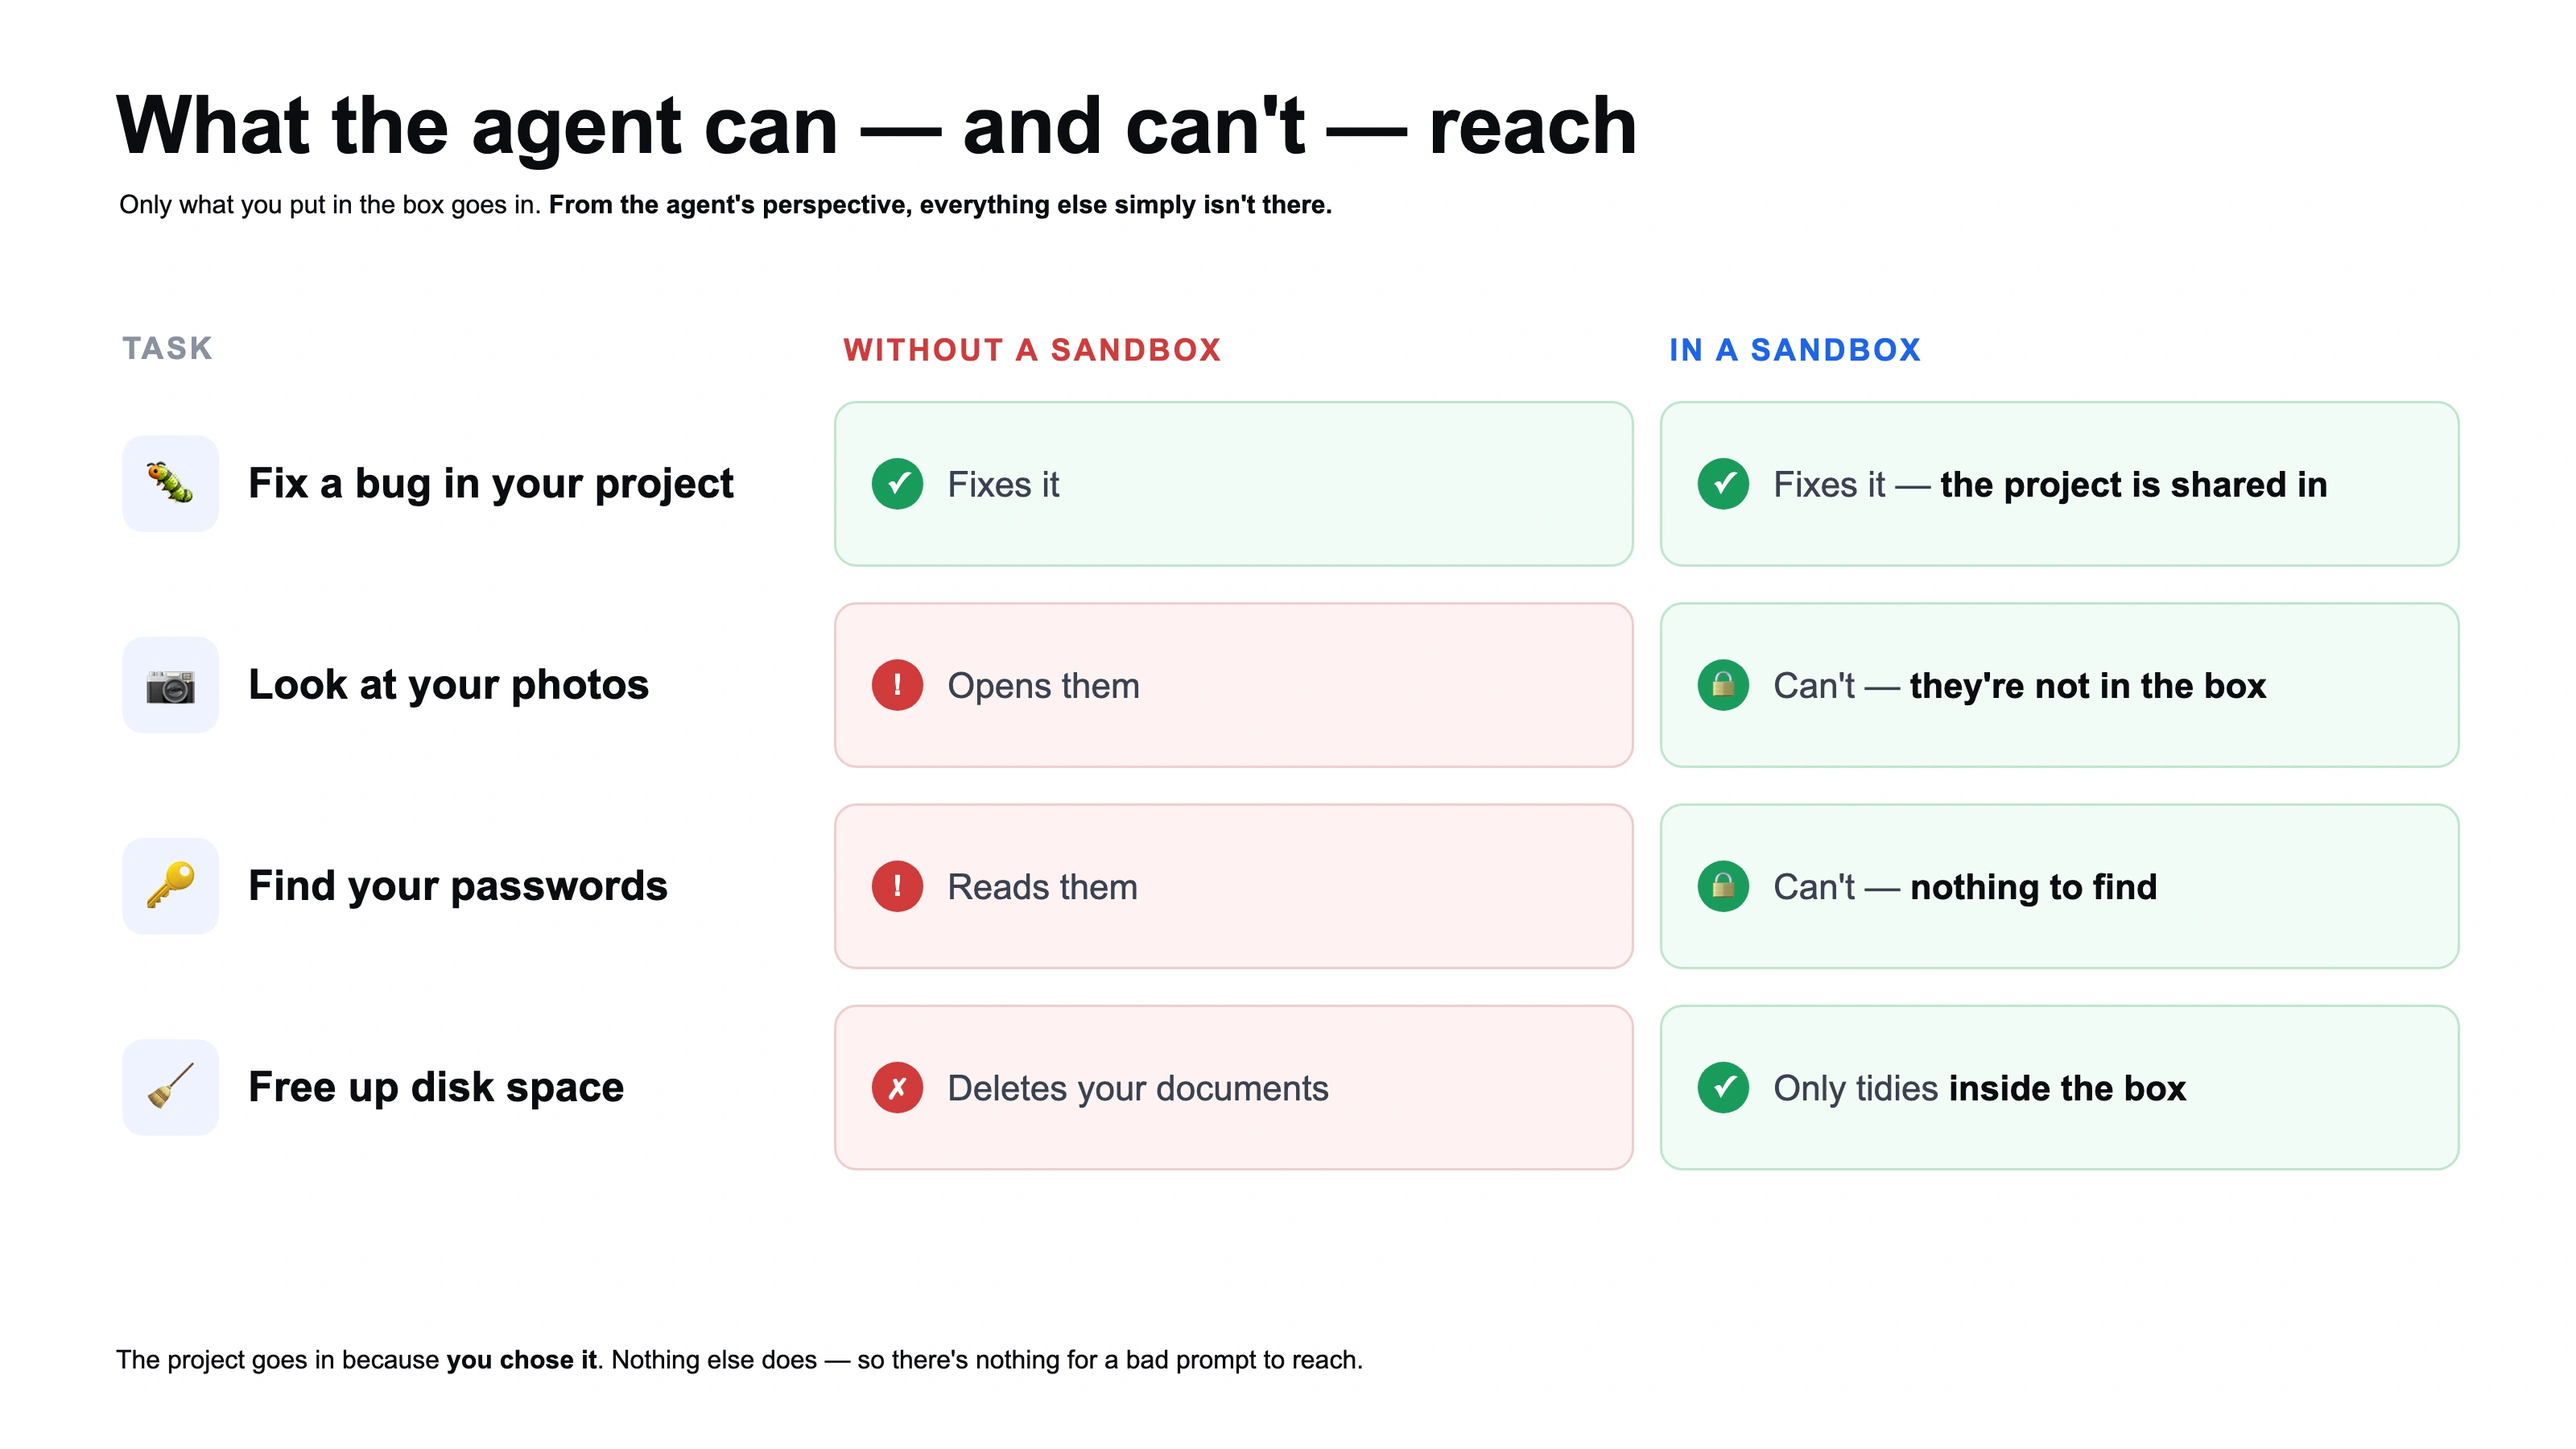
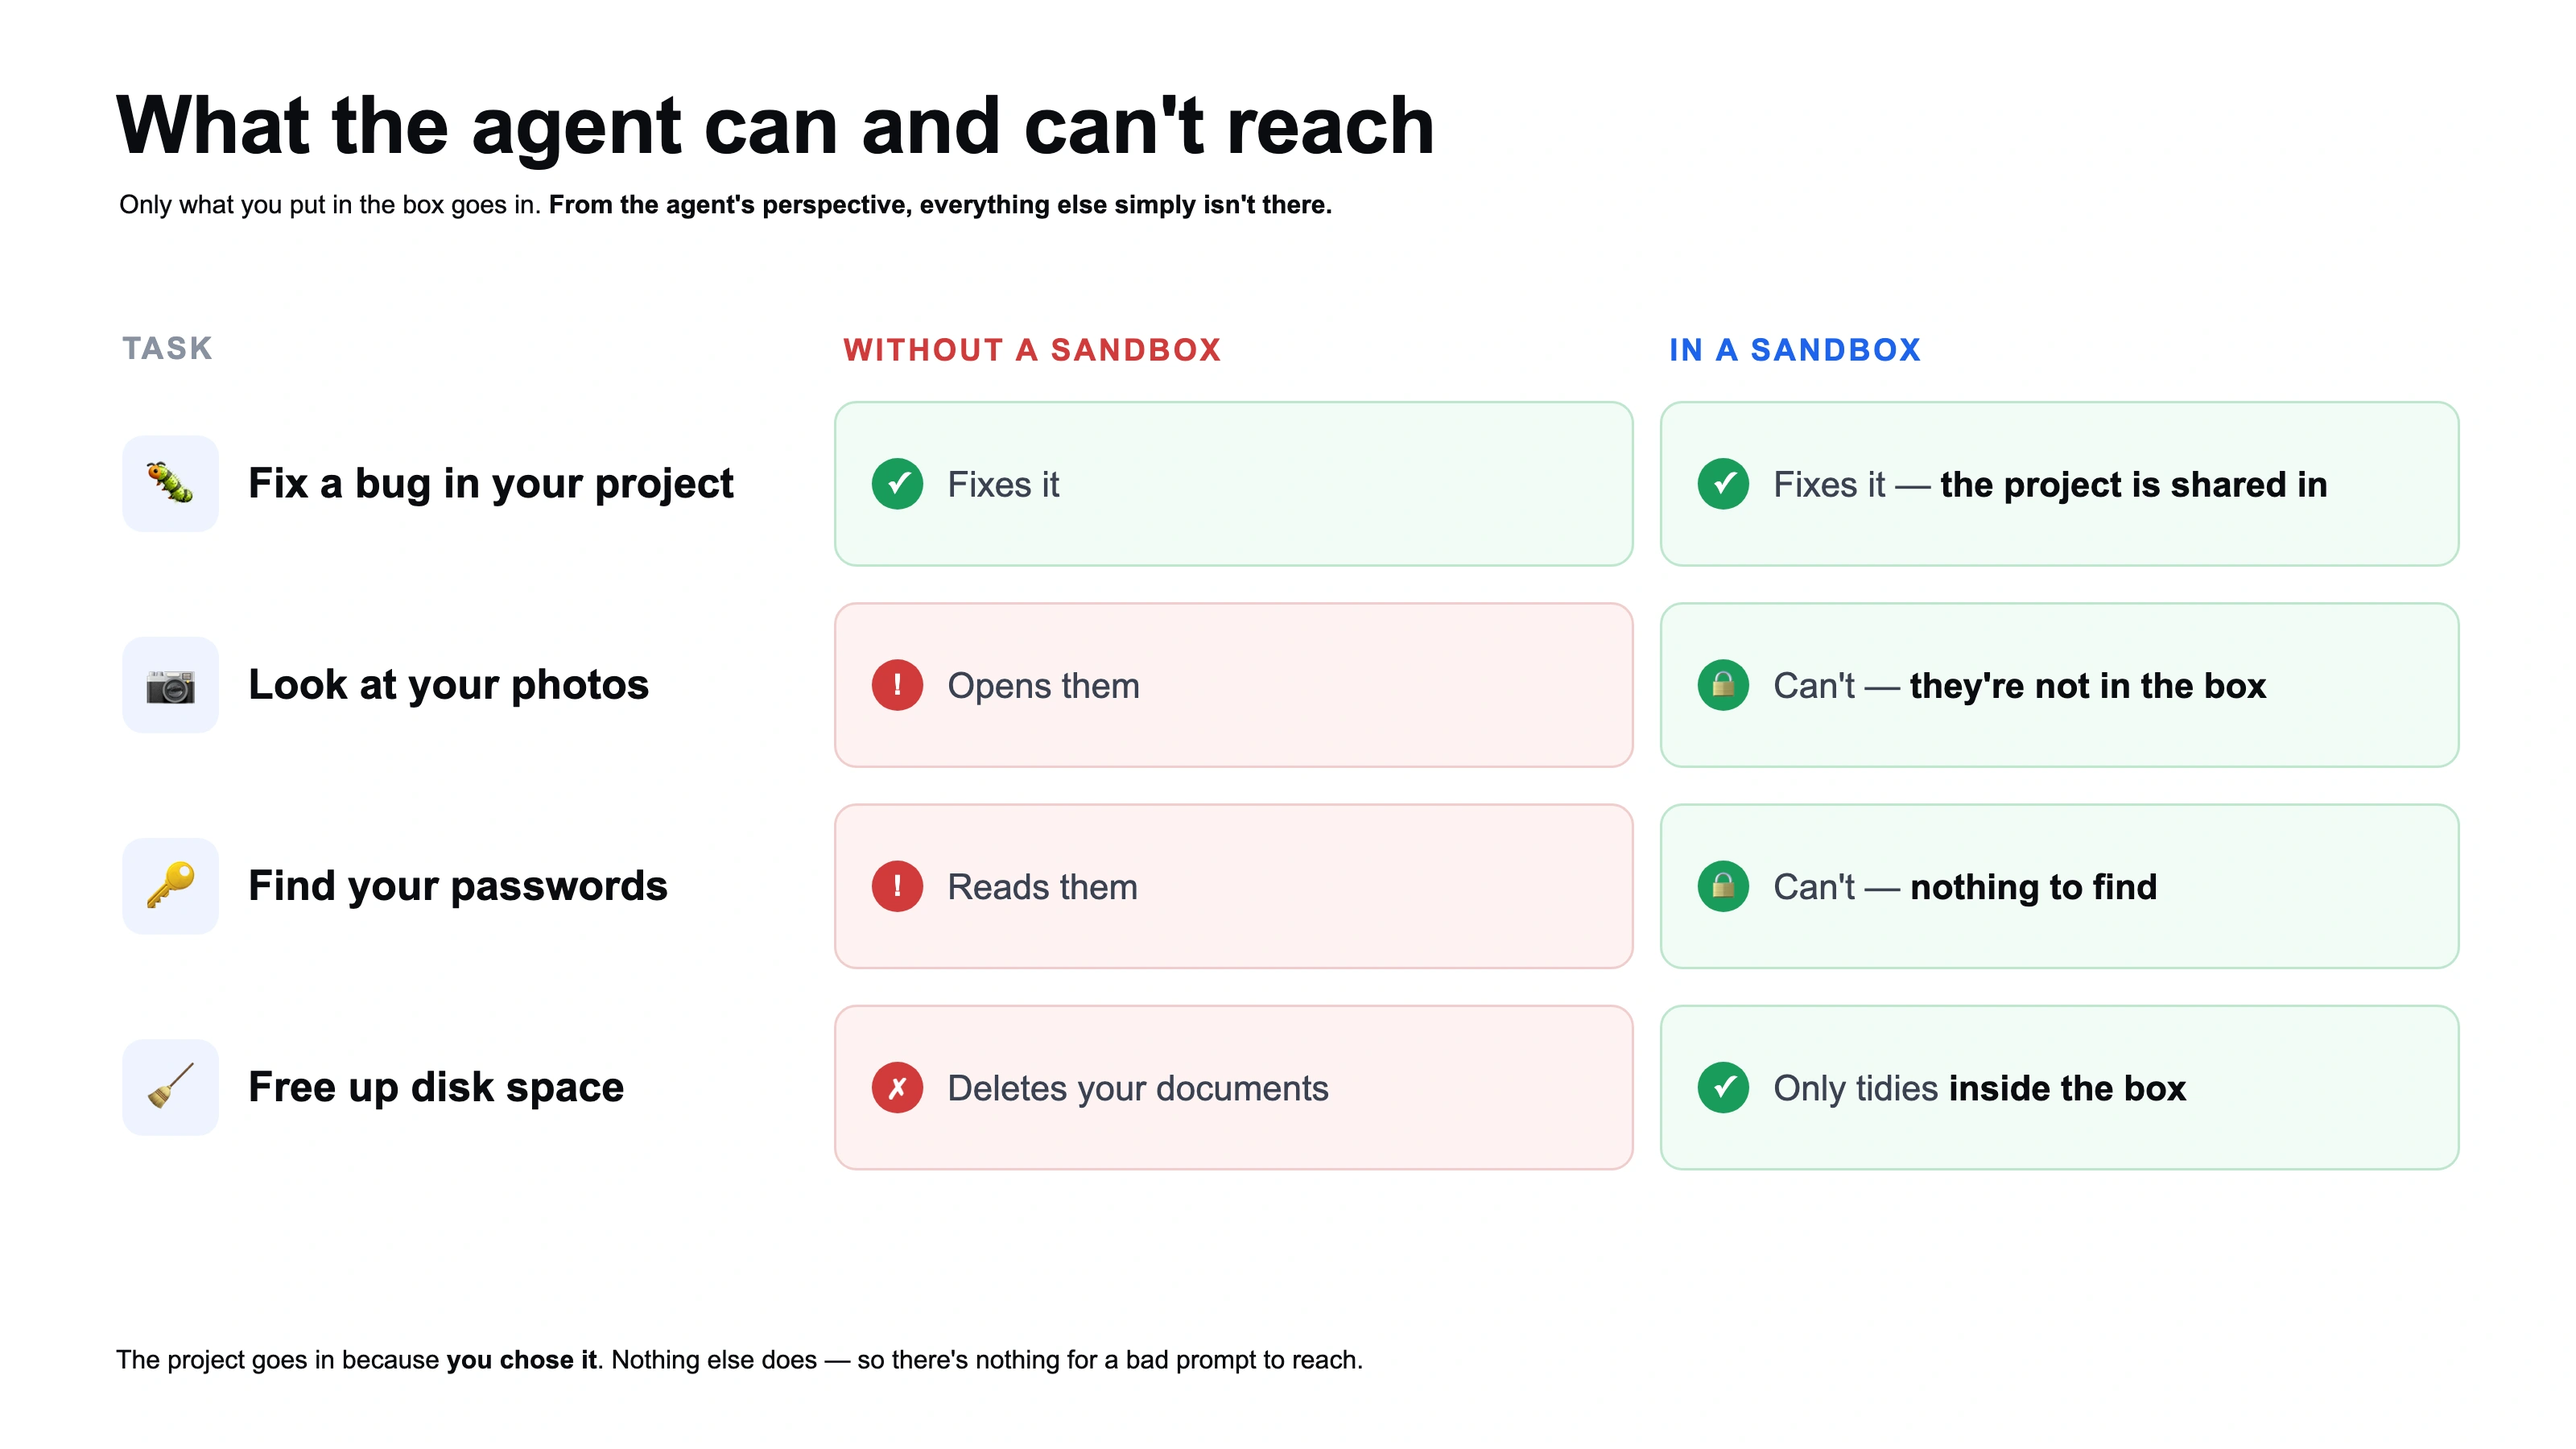
Remove em-dashes from slide 34 title
"What the agent can — and can't — reach" -> "What the agent can and can't reach".

Changed region(s): [[0.3438, 0.0622, 0.6562, 0.1244]]

diff --git a/labs/securing-the-agentic-stack-slides/_build/4cs-agent-reach.html b/labs/securing-the-agentic-stack-slides/_build/4cs-agent-reach.html
@@ -46,7 +46,7 @@
 </head>
 <body>
 <div id="slide">
-  <h1>What the agent can &mdash; and can't &mdash; reach</h1>
+  <h1>What the agent can and can't reach</h1>
   <div class="sub">Only what you put in the box goes in. <b>From the agent's perspective, everything else simply isn't there.</b></div>
 
   <div class="table">
